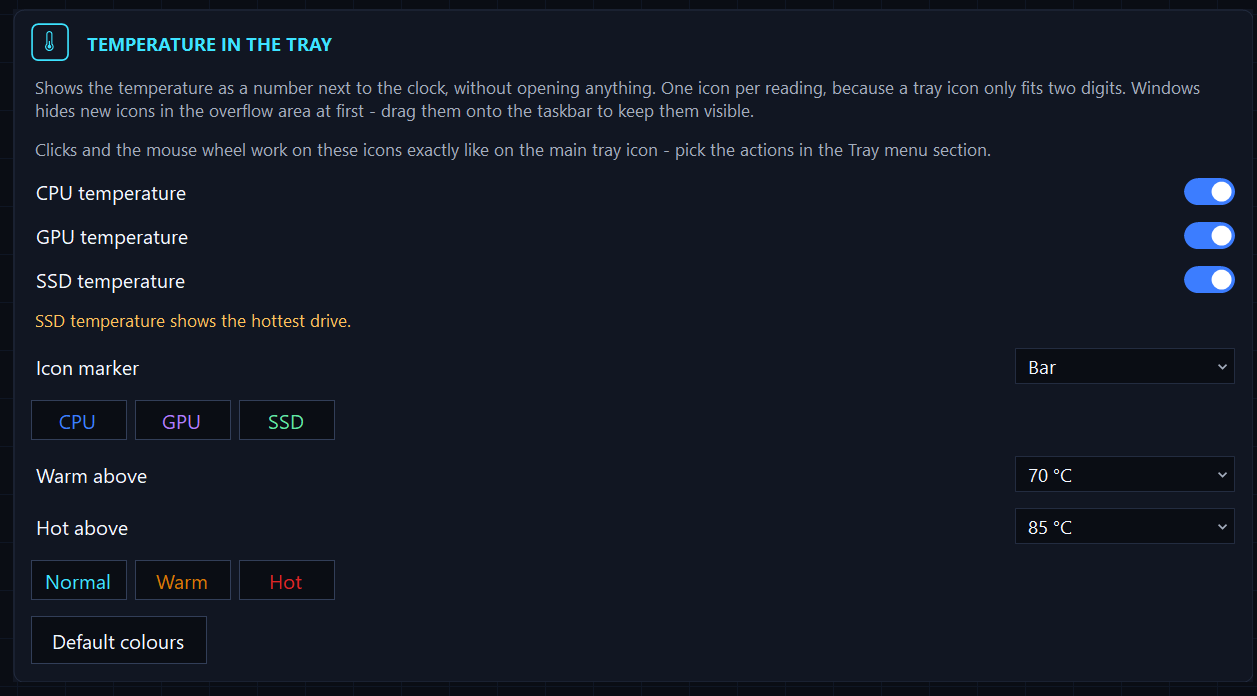
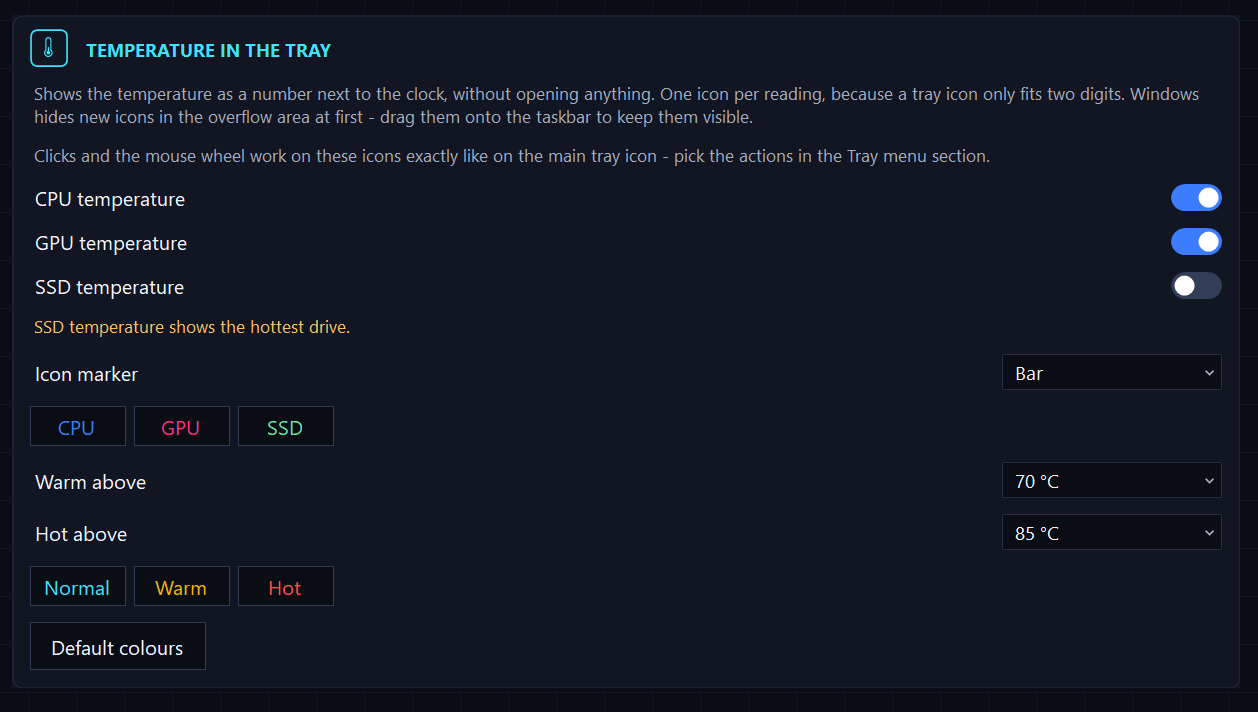
Docs: live Status screenshot with the integrated GPU, overlay with every item, tray settings with the default marker colours (#101, #150)

diff --git a/README.md b/README.md
@@ -185,6 +185,8 @@ GhostDeck is a small, focused tool - it deliberately does one thing (power/fan p
 | **Profile order** - two presets (Standard, By power) and an up and a down arrow per profile; the tiles, the tray menu, the profile lists and "next profile" follow | **Your own order** - while the rows match neither preset, a note under the presets says that an own order is in use |
 | ![Temperature in the tray settings](docs/images/temperature_tray_settings.png) | ![Tray icon marker styles](docs/images/tray_marker_styles.png) |
 | **Settings → System → Temperature in the tray** - CPU, GPU and SSD icons (the SSD one is the hottest drive), the icon marker with a colour per source, and the warm / hot thresholds with their colours | **Icon marker** - a bar under the digits (default), a dot, a corner or none, shown magnified and at real size on a dark and a light taskbar |
+| ![Status with the integrated GPU](docs/images/status_igpu.png) | ![Gaming overlay](docs/images/overlay_items.png) |
+| **Status on a two-card laptop** - "GPU load" is the discrete card alone, and the integrated card sits next to it with the shared memory it uses | **Gaming overlay** - every item switched on: the CPU model, CPU% next to GPU% and iGPU%, frametime, time left and the charge limit |
 
 ## Download
 

diff --git a/docs/TECHNICAL.md b/docs/TECHNICAL.md
@@ -3038,6 +3038,8 @@ would count a card with two 3D engines twice. A sleeping card has no instances a
 When the roles are unknown, the readings fall back to adding every adapter up, as before, so
 nothing regresses where the classification fails.
 
+![Status on a GE78HX: "GPU load" is the sleeping RTX, the iGPU box sits under the CPU-usage ring](images/status_igpu.png)
+
 **What is shown.** Status: an `iGPU: N % · X.X GB` box in the free slot under the CPU-usage ring,
 beside "GPU load" (one row down beside the graphics clock when the VRAM total is unknown and VRAM
 takes that slot as a box). The shared memory (`Shared Usage`: the integrated chip has no memory
